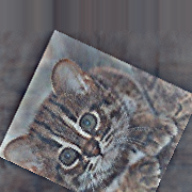
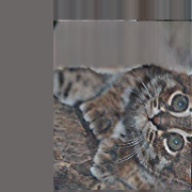
Deploy from Github Actions build 2887102667 [ci skip]
Build URL: https://github.com/mlampros/OpenImageR/actions/runs/2887102667
Commit: f38f9ebc97220ba1ab4acc3416d119e65e34e229

diff --git a/articles/The_OpenImageR_package.html b/articles/The_OpenImageR_package.html
@@ -90,7 +90,7 @@
       <h1 data-toc-skip>Functionality of the OpenImageR package</h1>
                         <h4 data-toc-skip class="author">Lampros Mouselimis</h4>
             
-            <h4 data-toc-skip class="date">2022-08-18</h4>
+            <h4 data-toc-skip class="date">2022-08-19</h4>
       
       <small class="dont-index">Source: <a href="https://github.com/mlampros/OpenImageR/blob/HEAD/vignettes/The_OpenImageR_package.Rmd" class="external-link"><code>vignettes/The_OpenImageR_package.Rmd</code></a></small>
       <div class="hidden name"><code>The_OpenImageR_package.Rmd</code></div>
@@ -341,7 +341,7 @@
 <span>                    </span>
 <span>                    zca_epsilon <span class="op">=</span> <span class="fl">0.1</span>, image_thresh <span class="op">=</span> <span class="fl">0.0</span>, verbose <span class="op">=</span> <span class="cn">T</span><span class="op">)</span></span></code></pre></div>
 <pre><code><span><span class="co">## </span></span>
-<span><span class="co">## time to complete : 0.1193399 secs</span></span></code></pre>
+<span><span class="co">## time to complete : 0.1194091 secs</span></span></code></pre>
 <div class="sourceCode" id="cb28"><pre class="downlit sourceCode r">
 <code class="sourceCode R"><span><span class="fu"><a href="../reference/imageShow.html">imageShow</a></span><span class="op">(</span><span class="va">augm</span><span class="op">)</span></span></code></pre></div>
 <p><img src="The_OpenImageR_package_files/figure-html/unnamed-chunk-23-1.png" width="96"><br><br></p>
@@ -444,7 +444,7 @@
 <span></span>
 <span><span class="va">res</span> <span class="op">=</span> <span class="fu"><a href="../reference/HOG_apply.html">HOG_apply</a></span><span class="op">(</span><span class="va">tmp_arr</span>, cells <span class="op">=</span> <span class="fl">2</span>, orientations <span class="op">=</span> <span class="fl">3</span><span class="op">)</span></span></code></pre></div>
 <pre><code><span><span class="co">## </span></span>
-<span><span class="co">## time to complete : 0.01686001 secs</span></span></code></pre>
+<span><span class="co">## time to complete : 0.01625896 secs</span></span></code></pre>
 <div class="sourceCode" id="cb40"><pre class="downlit sourceCode r">
 <code class="sourceCode R"><span><span class="va">res</span></span></code></pre></div>
 <pre><code><span><span class="co">##            [,1]       [,2]       [,3]       [,4]       [,5]       [,6]</span></span>
@@ -600,7 +600,7 @@
 <span></span>
 <span><span class="va">hapl_hash</span> <span class="op">=</span> <span class="fu"><a href="../reference/hash_apply.html">hash_apply</a></span><span class="op">(</span><span class="va">path</span>, hash_size <span class="op">=</span> <span class="fl">6</span>, method <span class="op">=</span> <span class="st">"dhash"</span>, mode <span class="op">=</span> <span class="st">"hash"</span>, threads <span class="op">=</span> <span class="fl">1</span>,  resize <span class="op">=</span> <span class="st">"nearest"</span><span class="op">)</span></span></code></pre></div>
 <pre><code><span><span class="co">## </span></span>
-<span><span class="co">## time to complete : 0.01445603 secs</span></span></code></pre>
+<span><span class="co">## time to complete : 0.01462698 secs</span></span></code></pre>
 <div class="sourceCode" id="cb73"><pre class="downlit sourceCode r">
 <code class="sourceCode R"><span><span class="va">hapl_hash</span>                <span class="co"># returns both the names of the images and the hash values</span></span></code></pre></div>
 <pre><code><span><span class="co">## $files</span></span>
@@ -615,7 +615,7 @@
 <div class="sourceCode" id="cb75"><pre class="downlit sourceCode r">
 <code class="sourceCode R"><span><span class="va">hapl_bin</span> <span class="op">=</span> <span class="fu"><a href="../reference/hash_apply.html">hash_apply</a></span><span class="op">(</span><span class="va">path</span>, hash_size <span class="op">=</span> <span class="fl">6</span>, method <span class="op">=</span> <span class="st">"dhash"</span>, mode <span class="op">=</span> <span class="st">"binary"</span>, threads <span class="op">=</span> <span class="fl">1</span>,  resize <span class="op">=</span> <span class="st">"nearest"</span><span class="op">)</span></span></code></pre></div>
 <pre><code><span><span class="co">## </span></span>
-<span><span class="co">## time to complete : 0.01208496 secs</span></span></code></pre>
+<span><span class="co">## time to complete : 0.01234412 secs</span></span></code></pre>
 <div class="sourceCode" id="cb77"><pre class="downlit sourceCode r">
 <code class="sourceCode R"><span><span class="va">hapl_bin</span><span class="op">$</span><span class="va">files</span>             <span class="co"># names of the images</span></span></code></pre></div>
 <pre><code><span><span class="co">##  [1] "2_1.png" "2_2.png" "2_3.png" "4_1.png" "4_2.png" "4_3.png" "5_1.png"</span></span>

diff --git a/articles/Warp_Affine.html b/articles/Warp_Affine.html
@@ -90,7 +90,7 @@
       <h1 data-toc-skip>Warp Affine using R</h1>
                         <h4 data-toc-skip class="author">Lampros Mouselimis</h4>
             
-            <h4 data-toc-skip class="date">2022-08-18</h4>
+            <h4 data-toc-skip class="date">2022-08-19</h4>
       
       <small class="dont-index">Source: <a href="https://github.com/mlampros/OpenImageR/blob/HEAD/vignettes/Warp_Affine.Rmd" class="external-link"><code>vignettes/Warp_Affine.Rmd</code></a></small>
       <div class="hidden name"><code>Warp_Affine.Rmd</code></div>
@@ -112,7 +112,7 @@
 <pre><code><span><span class="co">## [1] 600 600   3</span></span></code></pre>
 <p><br></p>
 <div class="figure" style="text-align: center">
-<img src="../../../../../../private/var/folders/24/8k48jl6d249_n_qfxwsl6xvm0000gn/T/Rtmpswfnnz/temp_libpath5ffd78135e3d/OpenImageR/tmp_images/landscape.jpg" alt="Input Image" width="65%" height="50%"><p class="caption">
+<img src="../../../../../../private/var/folders/24/8k48jl6d249_n_qfxwsl6xvm0000gn/T/Rtmp3NVpmc/temp_libpath68db55aa7edc/OpenImageR/tmp_images/landscape.jpg" alt="Input Image" width="65%" height="50%"><p class="caption">
 Input Image
 </p>
 </div>
@@ -149,7 +149,7 @@ Input Image
 <span>                    R <span class="op">=</span> <span class="va">r</span>,</span>
 <span>                    C <span class="op">=</span> <span class="va">c</span>,</span>
 <span>                    verbose <span class="op">=</span> <span class="cn">TRUE</span><span class="op">)</span></span></code></pre></div>
-<pre><code><span><span class="co">## time to complete : 0.1208 secs</span></span></code></pre>
+<pre><code><span><span class="co">## time to complete : 0.0948 secs</span></span></code></pre>
 <div class="sourceCode" id="cb10"><pre class="downlit sourceCode r">
 <code class="sourceCode R"><span><span class="fu"><a href="https://rdrr.io/r/utils/str.html" class="external-link">str</a></span><span class="op">(</span><span class="va">res_3d</span><span class="op">)</span></span></code></pre></div>
 <pre><code><span><span class="co">##  num [1:600, 1:600, 1:3] 0 0 0 0 0 0 0 0 0 0 ...</span></span></code></pre>

diff --git a/reference/warpAffine.html b/reference/warpAffine.html
@@ -154,7 +154,7 @@
 <span class="r-in"><span>                    C <span class="op">=</span> <span class="va">c</span>,</span></span>
 <span class="r-in"><span>                    threads <span class="op">=</span> <span class="fl">4</span>,</span></span>
 <span class="r-in"><span>                    verbose <span class="op">=</span> <span class="cn">TRUE</span><span class="op">)</span></span></span>
-<span class="r-out co"><span class="r-pr">#&gt;</span> time to complete : 0.037 secs </span>
+<span class="r-out co"><span class="r-pr">#&gt;</span> time to complete : 0.0377 secs </span>
 <span class="r-in"><span></span></span>
 <span class="r-in"><span><span class="co"># imageShow(res_2d)</span></span></span>
 <span class="r-in"><span></span></span>
@@ -167,7 +167,7 @@
 <span class="r-in"><span>                    R <span class="op">=</span> <span class="va">r</span>,</span></span>
 <span class="r-in"><span>                    C <span class="op">=</span> <span class="va">c</span>,</span></span>
 <span class="r-in"><span>                    verbose <span class="op">=</span> <span class="cn">TRUE</span><span class="op">)</span></span></span>
-<span class="r-out co"><span class="r-pr">#&gt;</span> time to complete : 0.0959 secs </span>
+<span class="r-out co"><span class="r-pr">#&gt;</span> time to complete : 0.0923 secs </span>
 <span class="r-in"><span></span></span>
 <span class="r-in"><span><span class="co"># imageShow(res_3d)</span></span></span>
 <span class="r-in"><span></span></span>

diff --git a/reference/hash_apply.html b/reference/hash_apply.html
@@ -144,7 +144,7 @@ the rows of the output matrix), the 2nd sublist is a matrix (if mode = 'binary')
 <span class="r-in"><span></span></span>
 <span class="r-in"><span><span class="va">res_phash</span> <span class="op">=</span> <span class="fu">hash_apply</span><span class="op">(</span><span class="va">path</span>, method <span class="op">=</span> <span class="st">'phash'</span>, mode <span class="op">=</span> <span class="st">'binary'</span><span class="op">)</span></span></span>
 <span class="r-out co"><span class="r-pr">#&gt;</span> </span>
-<span class="r-out co"><span class="r-pr">#&gt;</span> time to complete : 0.005005836 secs </span>
+<span class="r-out co"><span class="r-pr">#&gt;</span> time to complete : 0.005173922 secs </span>
 <span class="r-out co"><span class="r-pr">#&gt;</span> </span>
 <span class="r-in"><span></span></span>
 </code></pre></div>

diff --git a/articles/Image_segmentation_superpixels_clustering.html b/articles/Image_segmentation_superpixels_clustering.html
@@ -90,7 +90,7 @@
       <h1 data-toc-skip>Image segmentation based on Superpixels and Clustering</h1>
                         <h4 data-toc-skip class="author">Lampros Mouselimis</h4>
             
-            <h4 data-toc-skip class="date">2022-08-18</h4>
+            <h4 data-toc-skip class="date">2022-08-19</h4>
       
       <small class="dont-index">Source: <a href="https://github.com/mlampros/OpenImageR/blob/HEAD/vignettes/Image_segmentation_superpixels_clustering.Rmd" class="external-link"><code>vignettes/Image_segmentation_superpixels_clustering.Rmd</code></a></small>
       <div class="hidden name"><code>Image_segmentation_superpixels_clustering.Rmd</code></div>

diff --git a/articles/Gabor_Feature_Extraction.html b/articles/Gabor_Feature_Extraction.html
@@ -90,7 +90,7 @@
       <h1 data-toc-skip>Gabor Feature extraction</h1>
                         <h4 data-toc-skip class="author">Lampros Mouselimis</h4>
             
-            <h4 data-toc-skip class="date">2022-08-18</h4>
+            <h4 data-toc-skip class="date">2022-08-19</h4>
       
       <small class="dont-index">Source: <a href="https://github.com/mlampros/OpenImageR/blob/HEAD/vignettes/Gabor_Feature_Extraction.Rmd" class="external-link"><code>vignettes/Gabor_Feature_Extraction.Rmd</code></a></small>
       <div class="hidden name"><code>Gabor_Feature_Extraction.Rmd</code></div>
